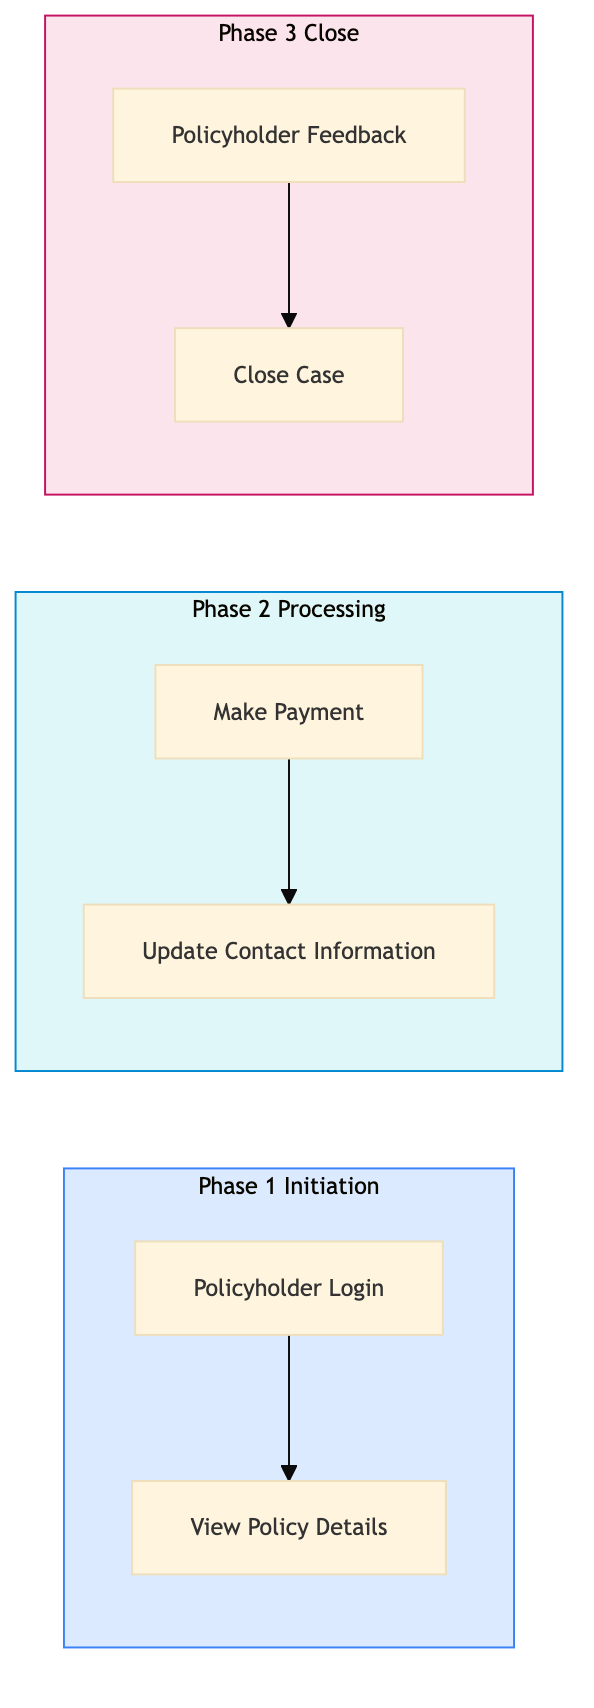
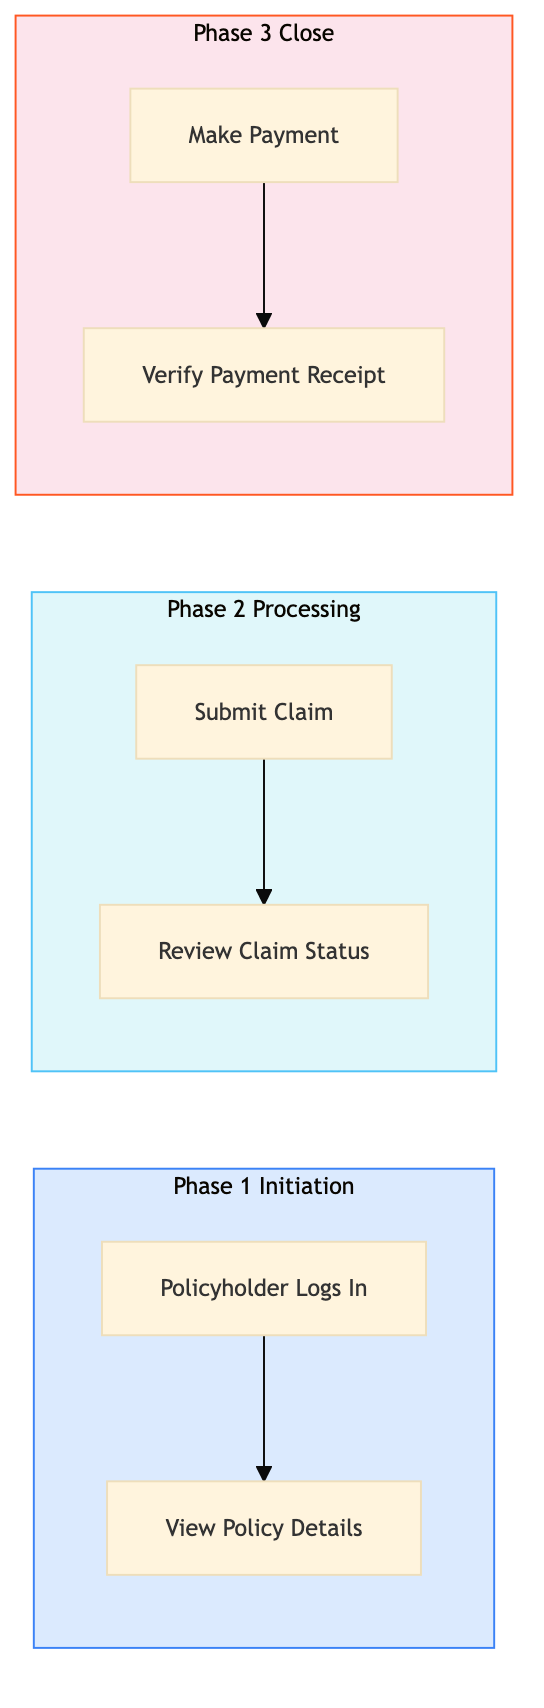
feat: add CAA-CI-PO-08 — Guidewire Account Management Portal Policyholder Self-Servic

diff --git a/caa-insurance/caa-policy-administration/caa-ci-po-08.html b/caa-insurance/caa-policy-administration/caa-ci-po-08.html
@@ -23,40 +23,16 @@
     <div class="nav-l2-group">
       <a class="nav-l2-title" href="../../shared-membership/membership-enrolment/index.html">Membership Enrolment & Sales</a>
       <div class="nav-l3-list">
-        <a class="nav-l3" href="../../shared-membership/membership-enrolment/shared-mb-en-01.html">SHARED-MB-EN-01 &mdash; New Member Walk-In Enrolment (Branch)</a>
-        <a class="nav-l3" href="../../shared-membership/membership-enrolment/shared-mb-en-02.html">SHARED-MB-EN-02 &mdash; Online Membership Self-Enrolment (Web/Ap</a>
-        <a class="nav-l3" href="../../shared-membership/membership-enrolment/shared-mb-en-03.html">SHARED-MB-EN-03 &mdash; Phone Enrolment via Contact Centre</a>
-        <a class="nav-l3" href="../../shared-membership/membership-enrolment/shared-mb-en-04.html">SHARED-MB-EN-04 &mdash; Affiliate and Employer Group Enrolment</a>
-        <a class="nav-l3" href="../../shared-membership/membership-enrolment/shared-mb-en-05.html">SHARED-MB-EN-05 &mdash; Membership Tier Selection and Upsell</a>
-        <a class="nav-l3" href="../../shared-membership/membership-enrolment/shared-mb-en-06.html">SHARED-MB-EN-06 &mdash; Payment Processing and First-Year Billin</a>
-        <a class="nav-l3" href="../../shared-membership/membership-enrolment/shared-mb-en-07.html">SHARED-MB-EN-07 &mdash; Welcome Kit and Digital Card Issuance</a>
-        <a class="nav-l3" href="../../shared-membership/membership-enrolment/shared-mb-en-08.html">SHARED-MB-EN-08 &mdash; Duplicate Member Detection and Merge</a>
       </div>
     </div>
     <div class="nav-l2-group">
       <a class="nav-l2-title" href="../../shared-membership/membership-renewal/index.html">Membership Renewal & Retention</a>
       <div class="nav-l3-list">
-        <a class="nav-l3" href="../../shared-membership/membership-renewal/shared-mb-rn-01.html">SHARED-MB-RN-01 &mdash; Annual Renewal Notice Generation and Dis</a>
-        <a class="nav-l3" href="../../shared-membership/membership-renewal/shared-mb-rn-02.html">SHARED-MB-RN-02 &mdash; Auto-Renewal Processing (Credit Card on </a>
-        <a class="nav-l3" href="../../shared-membership/membership-renewal/shared-mb-rn-03.html">SHARED-MB-RN-03 &mdash; Lapsed Member Reinstatement Campaign</a>
-        <a class="nav-l3" href="../../shared-membership/membership-renewal/shared-mb-rn-04.html">SHARED-MB-RN-04 &mdash; Membership Upgrade and Tier Change Proce</a>
-        <a class="nav-l3" href="../../shared-membership/membership-renewal/shared-mb-rn-05.html">SHARED-MB-RN-05 &mdash; Associate and Household Member Add-On Pr</a>
-        <a class="nav-l3" href="../../shared-membership/membership-renewal/shared-mb-rn-06.html">SHARED-MB-RN-06 &mdash; Cancellation Request Handling and Save O</a>
-        <a class="nav-l3" href="../../shared-membership/membership-renewal/shared-mb-rn-07.html">SHARED-MB-RN-07 &mdash; Renewal Rate Review and Pricing Update</a>
-        <a class="nav-l3" href="../../shared-membership/membership-renewal/shared-mb-rn-08.html">SHARED-MB-RN-08 &mdash; Membership Winback Campaign (12-36 Month</a>
       </div>
     </div>
     <div class="nav-l2-group">
       <a class="nav-l2-title" href="../../shared-membership/member-services/index.html">Member Services & Benefits</a>
       <div class="nav-l3-list">
-        <a class="nav-l3" href="../../shared-membership/member-services/shared-mb-sv-01.html">SHARED-MB-SV-01 &mdash; Member Discount Partner Redemption</a>
-        <a class="nav-l3" href="../../shared-membership/member-services/shared-mb-sv-02.html">SHARED-MB-SV-02 &mdash; Passport Photo Service Delivery (Branch)</a>
-        <a class="nav-l3" href="../../shared-membership/member-services/shared-mb-sv-03.html">SHARED-MB-SV-03 &mdash; International Driving Permit (IDP) Proce</a>
-        <a class="nav-l3" href="../../shared-membership/member-services/shared-mb-sv-04.html">SHARED-MB-SV-04 &mdash; Notary and Document Authentication Servi</a>
-        <a class="nav-l3" href="../../shared-membership/member-services/shared-mb-sv-05.html">SHARED-MB-SV-05 &mdash; Member Portal Profile and Preferences Ma</a>
-        <a class="nav-l3" href="../../shared-membership/member-services/shared-mb-sv-06.html">SHARED-MB-SV-06 &mdash; Lost and Stolen Membership Card Replacem</a>
-        <a class="nav-l3" href="../../shared-membership/member-services/shared-mb-sv-07.html">SHARED-MB-SV-07 &mdash; Member Data Privacy Request (CCPA and PI</a>
-        <a class="nav-l3" href="../../shared-membership/member-services/shared-mb-sv-08.html">SHARED-MB-SV-08 &mdash; Member Satisfaction Survey and NPS Track</a>
       </div>
     </div>
   </div>
@@ -329,7 +305,7 @@
           <span class="pid-badge org-badge-caa">CAA</span>
           CAA-CI-PO-08 &mdash; Guidewire Account Management Portal Policyholder Self-Service
         </h1>
-        <p>The process enables policyholders to manage their policies through the Guidewire Account Management Portal, allowing them to view policy details, make payments, and update contact information.</p>
+        <p>The process allows policyholders to manage their policies and claims through the Guidewire Account Management Portal. This self-service portal enables users to view policy details, make payments, and submit claims directly.</p>
       </div>
 
       <!-- BPMN Diagram -->
@@ -355,10 +331,10 @@
             <tr><th>L1 Domain</th><td>CAA Insurance (Ontario)</td></tr>
             <tr><th>L2 Process</th><td>Policy Administration (CAA)</td></tr>
             <tr><th>L3 Name</th><td>Guidewire Account Management Portal Policyholder Self-Service</td></tr>
-            <tr><th>Trigger</th><td>Policyholder logs into the CAA MyCAA App or accesses the Guidewire Account Management Portal.</td></tr>
-            <tr><th>Outcome</th><td>Policyholders can self-service their policy information, leading to improved customer satisfaction and reduced administrative workload for CAA staff.</td></tr>
-            <tr><th>Org Notes</th><td>CAA South Central Ontario uses the FSRA-regulated Guidewire InsuranceSuite, ensuring compliance with Ontario regulations. The process differs from AAA in that it integrates directly with Galileo GDS for travel-related services.</td></tr>
-            <tr><th>Systems</th><td><span class="sys-tag guidewire">Guidewire InsuranceSuite</span> <span class="sys-tag caa-app">CAA MyCAA App</span> <span class="sys-tag grasshopper">Grasshopper Bank</span> <span class="sys-tag salesforce">Salesforce</span></td></tr>
+            <tr><th>Trigger</th><td>Policyholder initiates an action within the Guidewire Account Management Portal.</td></tr>
+            <tr><th>Outcome</th><td>Successful completion results in policyholders being able to manage their policies and claims efficiently, reducing the workload on CAA staff.</td></tr>
+            <tr><th>Org Notes</th><td>CAA South Central Ontario focuses more on direct self-service for policyholders compared to AAA, which often requires more manual intervention from agents.</td></tr>
+            <tr><th>Systems</th><td><span class="sys-tag guidewire">Guidewire Account Management Portal</span> <span class="sys-tag galileo">Galileo GDS</span> <span class="sys-tag sap">SAP S/4HANA</span> <span class="sys-tag sys-generic">ClientBase</span> <span class="sys-tag powerbi">Power BI</span> <span class="sys-tag aws">AWS</span></td></tr>
           </table>
         </div>
       </div>
@@ -379,73 +355,73 @@
               <tbody>
         <tr>
           <td class="step-num">1.1</td>
-          <td>Policyholder Login</td>
-          <td>Customer</td>
-          <td><span class="sys-tag guidewire">CAA MyCAA App / Guidewire Account Management Portal</span></td>
-          <td>Credentials (username/password)</td>
-          <td>Access to policy information</td>
-          <td>Login Success Rate: 95% within 3 attempts</td>
-          <td>Frequent login failures due to credential issues</td>
+          <td>Policyholder Logs In</td>
+          <td>Policyholder</td>
+          <td><span class="sys-tag guidewire">Guidewire Account Management Portal</span></td>
+          <td>Credentials (username and password)</td>
+          <td>Access to the portal dashboard</td>
+          <td>Login success rate - 95% within 3 attempts</td>
+          <td>Frequent login failures due to forgotten passwords</td>
           <td>N</td>
           <td><span class="exception-y">Y</span></td>
         </tr>
         <tr>
           <td class="step-num">1.2</td>
           <td>View Policy Details</td>
-          <td>Customer Service Representative</td>
-          <td><span class="sys-tag guidewire">Guidewire InsuranceSuite</span></td>
-          <td>Policyholder request</td>
-          <td>Policy summary and details</td>
-          <td>Average time to retrieve policy details: 1 minute</td>
-          <td>Slow retrieval of policy information</td>
+          <td>Policyholder</td>
+          <td><span class="sys-tag guidewire">Guidewire Account Management Portal</span></td>
+          <td>User request</td>
+          <td>Policy details (coverage, premiums, expiration date)</td>
+          <td>Time to access policy details - 5 seconds or less</td>
+          <td>Slow loading times for policy information</td>
           <td>N</td>
           <td><span class="exception-y">Y</span></td>
         </tr>
         <tr>
           <td class="step-num">2.1</td>
-          <td>Make Payment</td>
-          <td>Customer Service Representative</td>
-          <td><span class="sys-tag guidewire">Guidewire InsuranceSuite / Grasshopper Bank</span></td>
-          <td>Payment details (amount, method)</td>
-          <td>Confirmation of payment receipt</td>
-          <td>Successful payment rate: 98% within 2 attempts</td>
-          <td>Payment processing failures</td>
+          <td>Submit Claim</td>
+          <td>Policyholder</td>
+          <td><span class="sys-tag guidewire">Guidewire Account Management Portal</span></td>
+          <td>Claim form with supporting documents</td>
+          <td>Claim submission confirmation</td>
+          <td>Claim submission success rate - 90%</td>
+          <td>Complex claim forms leading to errors</td>
           <td>N</td>
           <td><span class="exception-y">Y</span></td>
         </tr>
         <tr>
           <td class="step-num">2.2</td>
-          <td>Update Contact Information</td>
-          <td>Customer Service Representative</td>
-          <td><span class="sys-tag guidewire">Guidewire InsuranceSuite</span></td>
-          <td>New contact details (address, phone number)</td>
-          <td>Updated policy record</td>
-          <td>Contact update accuracy: 99%</td>
-          <td>Incorrect data entry leading to updates</td>
+          <td>Review Claim Status</td>
+          <td>Policyholder</td>
+          <td><span class="sys-tag guidewire">Guidewire Account Management Portal</span></td>
+          <td>User request</td>
+          <td>Claim status update (pending, approved, denied)</td>
+          <td>Time to receive claim status - 24 hours or less</td>
+          <td>Delayed updates on claim statuses</td>
           <td>N</td>
           <td><span class="exception-y">Y</span></td>
         </tr>
         <tr>
           <td class="step-num">3.1</td>
-          <td>Policyholder Feedback</td>
-          <td>Customer Service Representative</td>
-          <td><span class="sys-tag guidewire">Guidewire InsuranceSuite / Salesforce</span></td>
-          <td>Feedback from policyholder</td>
-          <td>Service improvement action plan</td>
-          <td>Positive feedback rate: 85%</td>
-          <td>Low customer satisfaction with self-service options</td>
+          <td>Make Payment</td>
+          <td>Policyholder</td>
+          <td><span class="sys-tag guidewire">Guidewire Account Management Portal</span></td>
+          <td>Payment details (credit card, bank transfer)</td>
+          <td>Payment confirmation</td>
+          <td>Payment success rate - 98%</td>
+          <td>Payment processing issues leading to failed transactions</td>
           <td>N</td>
           <td><span class="exception-y">Y</span></td>
         </tr>
         <tr>
           <td class="step-num">3.2</td>
-          <td>Close Case</td>
-          <td>Customer Service Representative</td>
-          <td><span class="sys-tag guidewire">Guidewire InsuranceSuite</span></td>
-          <td>Completed transaction details</td>
-          <td>Closed case record</td>
-          <td>Case closure time: 5 minutes</td>
-          <td>Delays in closing cases</td>
+          <td>Verify Payment Receipt</td>
+          <td>Policyholder</td>
+          <td><span class="sys-tag guidewire">Guidewire Account Management Portal</span></td>
+          <td>User request</td>
+          <td>Payment receipt confirmation</td>
+          <td>Time to verify payment - 5 minutes or less</td>
+          <td>Difficulty in finding payment receipts</td>
           <td>N</td>
           <td><span class="exception-y">Y</span></td>
         </tr>
@@ -460,9 +436,9 @@
         <div class="card-header">&#x1F4CA; KPIs &amp; Risk Register</div>
         <div class="card-body">
           <p class="mb-8"><strong>KPIs</strong></p>
-          <div class="kpi-list mb-8"><span class="kpi-pill">Login Success Rate: 95% within 3 attempts</span> <span class="kpi-pill">Average time to retrieve policy details: 1 minute</span> <span class="kpi-pill">Successful payment rate: 98% within 2 attempts</span> <span class="kpi-pill">Contact update accuracy: 99%</span> <span class="kpi-pill">Positive feedback rate: 85%</span> <span class="kpi-pill">Case closure time: 5 minutes</span></div>
+          <div class="kpi-list mb-8"><span class="kpi-pill">Login success rate - 95% within 3 attempts</span> <span class="kpi-pill">Time to access policy details - 5 seconds or less</span> <span class="kpi-pill">Claim submission success rate - 90%</span> <span class="kpi-pill">Time to receive claim status - 24 hours or less</span> <span class="kpi-pill">Payment success rate - 98%</span> <span class="kpi-pill">Time to verify payment - 5 minutes or less</span></div>
           <p class="mb-8" style="margin-top:16px"><strong>Key Risks</strong></p>
-          <div class="kpi-list"><span class="risk-pill">Data security breaches due to inadequate encryption measures</span> <span class="risk-pill">Non-compliance with FSRA regulations leading to fines</span> <span class="risk-pill">System downtime affecting policyholder access</span> <span class="risk-pill">Inaccurate data entry causing errors in policy updates</span> <span class="risk-pill">High customer churn due to unsatisfactory self-service options</span></div>
+          <div class="kpi-list"><span class="risk-pill">Security breaches leading to unauthorized access</span> <span class="risk-pill">System downtime affecting portal availability</span> <span class="risk-pill">Data entry errors in claim submissions</span> <span class="risk-pill">Payment processing failures due to connectivity issues</span> <span class="risk-pill">Non-compliance with FSRA regulations</span></div>
         </div>
       </div>
 

diff --git a/caa-insurance/caa-policy-administration/index.html b/caa-insurance/caa-policy-administration/index.html
@@ -121,6 +121,7 @@
         <a class="nav-l3" href="../../caa-insurance/caa-policy-administration/caa-ci-po-04.html">CAA-CI-PO-04 &mdash; Non-Renewal Notice (15-Day Statutory Req</a>
         <a class="nav-l3" href="../../caa-insurance/caa-policy-administration/caa-ci-po-05.html">CAA-CI-PO-05 &mdash; Cancellation Processing (Flat and Pro-Ra</a>
         <a class="nav-l3" href="../../caa-insurance/caa-policy-administration/caa-ci-po-06.html">CAA-CI-PO-06 &mdash; Pink Slip (OPCF 17) Issuance and Digital</a>
+        <a class="nav-l3" href="../../caa-insurance/caa-policy-administration/caa-ci-po-07.html">CAA-CI-PO-07 &mdash; Reinsurance Arrangement and Treaty Repor</a>
       </div>
     </div>
     <div class="nav-l2-group">
@@ -297,7 +298,7 @@
           <a href="../index.html">CAA Insurance (Ontario)</a>
         </div>
         <h1>🍁 Policy Administration (CAA)</h1>
-        <p>6 of 8 processes complete</p>
+        <p>7 of 8 processes complete</p>
       </div>
       <div class="card">
         <div class="card-header">Process List</div>
@@ -310,7 +311,7 @@
 <tr><td><a href="caa-ci-po-04.html">CAA-CI-PO-04</a></td><td>Non-Renewal Notice (15-Day Statutory Requirement)</td><td><span style="color:#16a34a;font-weight:700">&#x2705; Complete</span></td></tr>
 <tr><td><a href="caa-ci-po-05.html">CAA-CI-PO-05</a></td><td>Cancellation Processing (Flat and Pro-Rata and Statutory)</td><td><span style="color:#16a34a;font-weight:700">&#x2705; Complete</span></td></tr>
 <tr><td><a href="caa-ci-po-06.html">CAA-CI-PO-06</a></td><td>Pink Slip (OPCF 17) Issuance and Digital Delivery</td><td><span style="color:#16a34a;font-weight:700">&#x2705; Complete</span></td></tr>
-<tr><td>CAA-CI-PO-07</td><td>Reinsurance Arrangement and Treaty Reporting</td><td><span style="color:#94a3b8">&#x23F3; Queued</span></td></tr>
+<tr><td><a href="caa-ci-po-07.html">CAA-CI-PO-07</a></td><td>Reinsurance Arrangement and Treaty Reporting</td><td><span style="color:#16a34a;font-weight:700">&#x2705; Complete</span></td></tr>
 <tr><td>CAA-CI-PO-08</td><td>Guidewire Account Management Portal Policyholder Self-Service</td><td><span style="color:#94a3b8">&#x23F3; Queued</span></td></tr>
 </tbody>
           </table>

diff --git a/index.html b/index.html
@@ -121,6 +121,7 @@
         <a class="nav-l3" href="caa-insurance/caa-policy-administration/caa-ci-po-04.html">CAA-CI-PO-04 &mdash; Non-Renewal Notice (15-Day Statutory Req</a>
         <a class="nav-l3" href="caa-insurance/caa-policy-administration/caa-ci-po-05.html">CAA-CI-PO-05 &mdash; Cancellation Processing (Flat and Pro-Ra</a>
         <a class="nav-l3" href="caa-insurance/caa-policy-administration/caa-ci-po-06.html">CAA-CI-PO-06 &mdash; Pink Slip (OPCF 17) Issuance and Digital</a>
+        <a class="nav-l3" href="caa-insurance/caa-policy-administration/caa-ci-po-07.html">CAA-CI-PO-07 &mdash; Reinsurance Arrangement and Treaty Repor</a>
       </div>
     </div>
     <div class="nav-l2-group">
@@ -297,10 +298,10 @@
       </div>
 
       <div class="stats-bar">
-        <div class="stat-card"><div class="stat-num">50</div><div class="stat-label">Processes Complete</div></div>
+        <div class="stat-card"><div class="stat-num">51</div><div class="stat-label">Processes Complete</div></div>
         <div class="stat-card"><div class="stat-num">268</div><div class="stat-label">Total Processes</div></div>
         <div class="stat-card"><div class="stat-num">34</div><div class="stat-label">AAA Complete</div></div>
-        <div class="stat-card"><div class="stat-num caa-red">16</div><div class="stat-label">CAA Complete</div></div>
+        <div class="stat-card"><div class="stat-num caa-red">17</div><div class="stat-label">CAA Complete</div></div>
         <div class="stat-card"><div class="stat-num">0</div><div class="stat-label">Shared Complete</div></div>
       </div>
 
@@ -327,7 +328,7 @@
         <span class="nav-org-dot caa" style="display:inline-block;margin-right:4px"></span>
         CAA
       </p>
-      <p class="card-count">16 / 34 processes complete</p>
+      <p class="card-count">17 / 34 processes complete</p>
     </div>
     <div class="domain-card org-shared">
       <h3><a href="shared-roadside/index.html">🚨 Roadside Assistance</a></h3>

diff --git a/caa-insurance/index.html b/caa-insurance/index.html
@@ -121,6 +121,7 @@
         <a class="nav-l3" href="../caa-insurance/caa-policy-administration/caa-ci-po-04.html">CAA-CI-PO-04 &mdash; Non-Renewal Notice (15-Day Statutory Req</a>
         <a class="nav-l3" href="../caa-insurance/caa-policy-administration/caa-ci-po-05.html">CAA-CI-PO-05 &mdash; Cancellation Processing (Flat and Pro-Ra</a>
         <a class="nav-l3" href="../caa-insurance/caa-policy-administration/caa-ci-po-06.html">CAA-CI-PO-06 &mdash; Pink Slip (OPCF 17) Issuance and Digital</a>
+        <a class="nav-l3" href="../caa-insurance/caa-policy-administration/caa-ci-po-07.html">CAA-CI-PO-07 &mdash; Reinsurance Arrangement and Treaty Repor</a>
       </div>
     </div>
     <div class="nav-l2-group">
@@ -294,7 +295,7 @@
       <div class="page-header">
         <div class="breadcrumb"><a href="../index.html">Home</a></div>
         <h1>🍁 CAA Insurance (Ontario)</h1>
-        <p>16 of 34 processes complete across 4 process groups</p>
+        <p>17 of 34 processes complete across 4 process groups</p>
       </div>
       <div class="domain-grid">    <div class="domain-card org-caa">
       <h3><a href="caa-insurance-quoting/index.html">Quoting & Underwriting (CAA)</a></h3>
@@ -302,7 +303,7 @@
     </div>
     <div class="domain-card org-caa">
       <h3><a href="caa-policy-administration/index.html">Policy Administration (CAA)</a></h3>
-      <p class="card-meta">6/8 processes complete</p>
+      <p class="card-meta">7/8 processes complete</p>
     </div>
     <div class="domain-card org-caa">
       <h3><a href="caa-insurance-billing/index.html">Billing & Premium Management (CAA)</a></h3>
